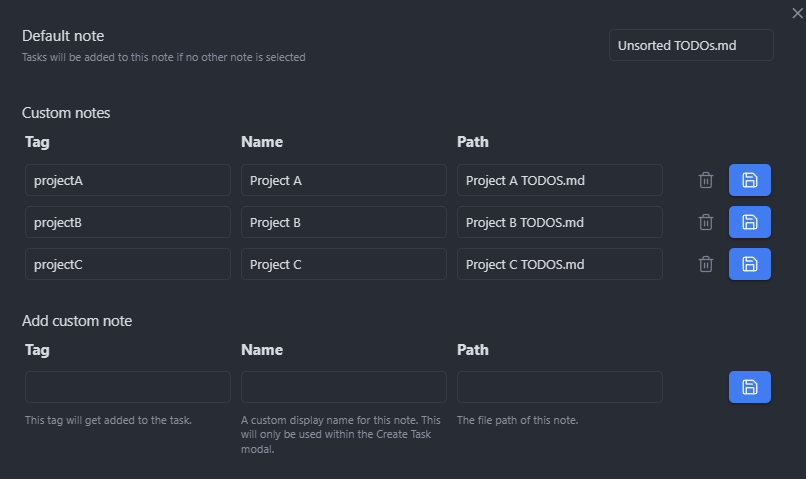
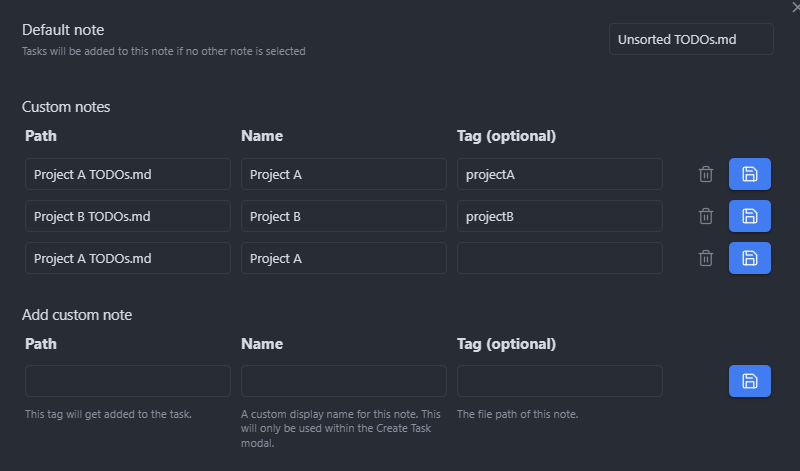
feat: Make tag optional

diff --git a/src/settings.ts b/src/settings.ts
@@ -11,18 +11,18 @@ import CreateTask from "./main";
 
 export interface CreateTaskSettings {
   defaultNote: string;
-  notes: Record<string, { name: string; path: string }>;
+  customNotes: { name: string; path: string; tag: string }[];
 }
 
 export const DEFAULT_SETTINGS: CreateTaskSettings = {
   defaultNote: "",
-  notes: {},
+  customNotes: [],
 };
 
 export class CreateTaskSettingTab extends PluginSettingTab {
   plugin: CreateTask;
 
-  newNoteKey: string;
+  newNoteTag: string;
   newNoteName: string;
   newNotePath: string;
 
@@ -59,43 +59,44 @@ export class CreateTaskSettingTab extends PluginSettingTab {
 
     const notesThead = notesTable.createEl("thead");
     const notesTheadTr = notesThead.createEl("tr");
-    notesTheadTr.createEl("th", { text: "Tag" });
-    notesTheadTr.createEl("th", { text: "Name" });
     notesTheadTr.createEl("th", { text: "Path" });
+    notesTheadTr.createEl("th", { text: "Name" });
+    notesTheadTr.createEl("th", { text: "Tag (optional)" });
     notesTheadTr.createEl("th");
     const notesTbody = notesTable.createEl("tbody");
 
-    for (const [key, { name, path }] of Object.entries(
-      this.plugin.settings.notes,
-    )) {
+    for (const [
+      index,
+      customNote,
+    ] of this.plugin.settings.customNotes.entries()) {
       const noteTr = notesTbody.createEl("tr");
 
-      let keyValue = key;
-      let nameValue = name;
-      let pathValue = path;
+      let tagValue = customNote.tag;
+      let nameValue = customNote.name;
+      let pathValue = customNote.path;
 
-      const tagTd = noteTr.createEl("td");
-      const tagTextComponent = new TextComponent(tagTd);
-      tagTextComponent.setValue(key).onChange(async (value) => {
-        keyValue = value.trim();
+      const pathTd = noteTr.createEl("td");
+      const pathTextComponent = new TextComponent(pathTd);
+      pathTextComponent.setValue(customNote.path).onChange(async (value) => {
+        pathValue = value.trim();
       });
 
       const nameTd = noteTr.createEl("td");
       const nameTextComponent = new TextComponent(nameTd);
-      nameTextComponent.setValue(name).onChange(async (value) => {
+      nameTextComponent.setValue(customNote.name).onChange(async (value) => {
         nameValue = value.trim();
       });
 
-      const pathTd = noteTr.createEl("td");
-      const pathTextComponent = new TextComponent(pathTd);
-      pathTextComponent.setValue(path).onChange(async (value) => {
-        pathValue = value.trim();
+      const tagTd = noteTr.createEl("td");
+      const tagTextComponent = new TextComponent(tagTd);
+      tagTextComponent.setValue(customNote.tag).onChange(async (value) => {
+        tagValue = value.trim();
       });
 
       const actionsTd = noteTr.createEl("td");
       const deleteExtraButtonComponent = new ExtraButtonComponent(actionsTd);
       deleteExtraButtonComponent.setIcon("trash").onClick(async () => {
-        delete this.plugin.settings.notes[key];
+        this.plugin.settings.customNotes.splice(index, 1);
         await this.plugin.saveSettings();
         this.display();
       });
@@ -104,17 +105,16 @@ export class CreateTaskSettingTab extends PluginSettingTab {
         .setIcon("save")
         .setCta()
         .onClick(async () => {
-          if (!keyValue || !nameValue || !pathValue) {
-            new Notice("Create Task: All fields are required");
+          if (!nameValue || !pathValue) {
+            new Notice("Create Task: Path and Name are required");
             return;
           }
 
-          this.plugin.settings.notes[keyValue] = {
+          this.plugin.settings.customNotes[index] = {
             name: nameValue,
             path: pathValue,
+            tag: tagValue,
           };
-
-          if (keyValue !== key) delete this.plugin.settings.notes[key];
 
           await this.plugin.saveSettings();
           this.display();
@@ -132,18 +132,18 @@ export class CreateTaskSettingTab extends PluginSettingTab {
 
     const addNoteThead = addNoteTable.createEl("thead");
     const addNoteTheadTr = addNoteThead.createEl("tr");
-    addNoteTheadTr.createEl("th", { text: "Tag" });
-    addNoteTheadTr.createEl("th", { text: "Name" });
     addNoteTheadTr.createEl("th", { text: "Path" });
+    addNoteTheadTr.createEl("th", { text: "Name" });
+    addNoteTheadTr.createEl("th", { text: "Tag (optional)" });
     addNoteTheadTr.createEl("th");
     const addNoteTbody = addNoteTable.createEl("tbody");
 
     const addNoteTr = addNoteTbody.createEl("tr");
 
-    const tagTd = addNoteTr.createEl("td");
-    const tagTextComponent = new TextComponent(tagTd);
-    tagTextComponent.setValue("").onChange(async (value) => {
-      this.newNoteKey = value;
+    const pathTd = addNoteTr.createEl("td");
+    const pathTextComponent = new TextComponent(pathTd);
+    pathTextComponent.setValue("").onChange(async (value) => {
+      this.newNotePath = value;
     });
 
     const nameTd = addNoteTr.createEl("td");
@@ -152,10 +152,10 @@ export class CreateTaskSettingTab extends PluginSettingTab {
       this.newNoteName = value;
     });
 
-    const pathTd = addNoteTr.createEl("td");
-    const pathTextComponent = new TextComponent(pathTd);
-    pathTextComponent.setValue("").onChange(async (value) => {
-      this.newNotePath = value;
+    const tagTd = addNoteTr.createEl("td");
+    const tagTextComponent = new TextComponent(tagTd);
+    tagTextComponent.setValue("").onChange(async (value) => {
+      this.newNoteTag = value;
     });
 
     const addTd = addNoteTr.createEl("td");
@@ -164,15 +164,16 @@ export class CreateTaskSettingTab extends PluginSettingTab {
       .setIcon("save")
       .setCta()
       .onClick(async () => {
-        if (!this.newNoteKey || !this.newNoteName || !this.newNotePath) {
-          new Notice("Create Task: All fields are required");
+        if (!this.newNoteName || !this.newNotePath) {
+          new Notice("Create Task: Path and Name are required");
           return;
         }
 
-        this.plugin.settings.notes[this.newNoteKey] = {
+        this.plugin.settings.customNotes.push({
           name: this.newNoteName,
           path: this.newNotePath,
-        };
+          tag: this.newNoteTag,
+        });
 
         await this.plugin.saveSettings();
         this.display();

diff --git a/src/modal.ts b/src/modal.ts
@@ -4,7 +4,7 @@ import CreateTask from "./main";
 export class CreateTaskModal extends Modal {
   plugin: CreateTask;
 
-  project: string;
+  customNoteIndex: "default" | number;
   taskDescription: string;
   dueDate: string;
 
@@ -14,7 +14,7 @@ export class CreateTaskModal extends Modal {
   constructor(app: App, plugin: CreateTask) {
     super(app);
     this.plugin = plugin;
-    this.project = "default";
+    this.customNoteIndex = "default";
   }
 
   onOpen() {
@@ -24,21 +24,20 @@ export class CreateTaskModal extends Modal {
 
     new Setting(contentEl)
       .setName("📁 Target note")
-      .setDesc("Corresponds to the notes added in the settings")
+      .setDesc("Corresponds to the custom notes added in the settings")
       .addDropdown((dropdown) => {
-        dropdown.addOptions({
-          default: "Default",
-        });
+        dropdown.addOption("default", "Default");
         dropdown.setValue("default");
 
-        for (const [key, { name }] of Object.entries(
-          this.plugin.settings.notes,
-        )) {
-          dropdown.addOption(key, name);
+        for (const [
+          index,
+          customNote,
+        ] of this.plugin.settings.customNotes.entries()) {
+          dropdown.addOption(index.toString(), customNote.name);
         }
 
         dropdown.onChange((value) => {
-          this.project = value;
+          this.customNoteIndex = value === "default" ? value : parseInt(value);
           this.updatePreview();
         });
       });
@@ -78,7 +77,7 @@ export class CreateTaskModal extends Modal {
           this.close();
 
           this.plugin.createTask(
-            this.project,
+            this.customNoteIndex,
             this.taskDescription,
             this.dueDate,
           );
@@ -97,14 +96,28 @@ export class CreateTaskModal extends Modal {
   }
 
   updatePreview() {
-    let path = this.plugin.settings.notes[this.project]?.path;
-    if (!path) path = this.plugin.settings.defaultNote;
-    this.previewElDescription.setText(
-      `The following line will get added to: ${path}`,
-    );
+    if (this.customNoteIndex === "default") {
+      this.previewElDescription.setText(
+        `The following line will get added to: ${this.plugin.settings.defaultNote}`,
+      );
 
-    this.previewElLine.setText(
-      this.plugin.compileLine(this.project, this.taskDescription, this.dueDate),
-    );
+      this.previewElLine.setText(
+        this.plugin.compileLine(undefined, this.taskDescription, this.dueDate),
+      );
+    } else {
+      const customNote = this.plugin.settings.customNotes[this.customNoteIndex];
+
+      this.previewElDescription.setText(
+        `The following line will get added to: ${customNote.path}`,
+      );
+
+      this.previewElLine.setText(
+        this.plugin.compileLine(
+          customNote.tag,
+          this.taskDescription,
+          this.dueDate,
+        ),
+      );
+    }
   }
 }

diff --git a/src/main.ts b/src/main.ts
@@ -55,12 +55,27 @@ export default class CreateTask extends Plugin {
     new Notice("Create Task: Settings saved");
   }
 
-  async createTask(project: string, taskDescription: string, dueDate: string) {
-    const str = this.compileLine(project, taskDescription, dueDate) + "\n";
+  async createTask(
+    customNoteIndex: "default" | number,
+    taskDescription: string,
+    dueDate: string,
+  ) {
+    let path: string;
+    let str: string;
 
-    const file = this.app.vault.getAbstractFileByPath(
-      this.settings.notes[project]?.path || this.settings.defaultNote,
-    );
+    if (customNoteIndex === "default") {
+      path = this.settings.defaultNote;
+
+      str = this.compileLine(undefined, taskDescription, dueDate) + "\n";
+    } else {
+      const customNote = this.settings.customNotes[customNoteIndex];
+
+      path = customNote.path;
+
+      str = this.compileLine(customNote.tag, taskDescription, dueDate) + "\n";
+    }
+
+    const file = this.app.vault.getAbstractFileByPath(path);
 
     if (!file || !(file instanceof TFile)) {
       new Notice("Create Task: Note not found");
@@ -72,7 +87,11 @@ export default class CreateTask extends Plugin {
     new Notice("Create Task: Task created");
   }
 
-  compileLine(project: string, taskDescription: string, dueDate: string) {
+  compileLine(
+    tag: string | undefined,
+    taskDescription: string,
+    dueDate: string,
+  ) {
     let str = `- [ ]`;
 
     if (taskDescription) {
@@ -81,8 +100,8 @@ export default class CreateTask extends Plugin {
       str += ` My task`;
     }
 
-    if (project !== "default") {
-      str += ` #${project}`;
+    if (tag) {
+      str += ` #${tag}`;
     }
 
     if (dueDate) {
